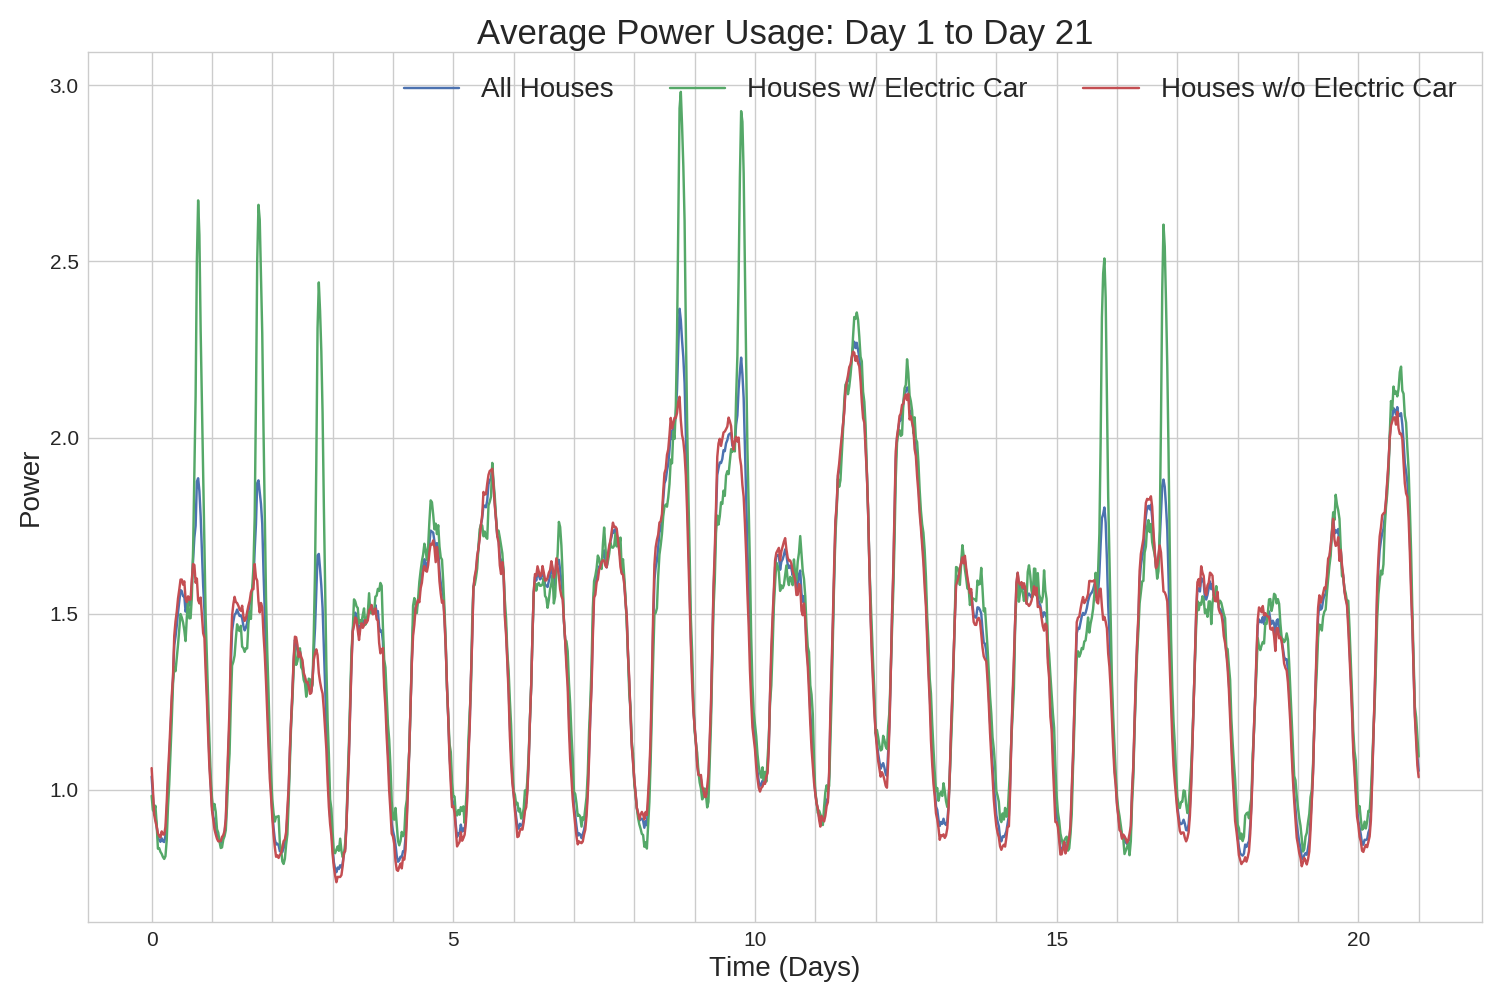
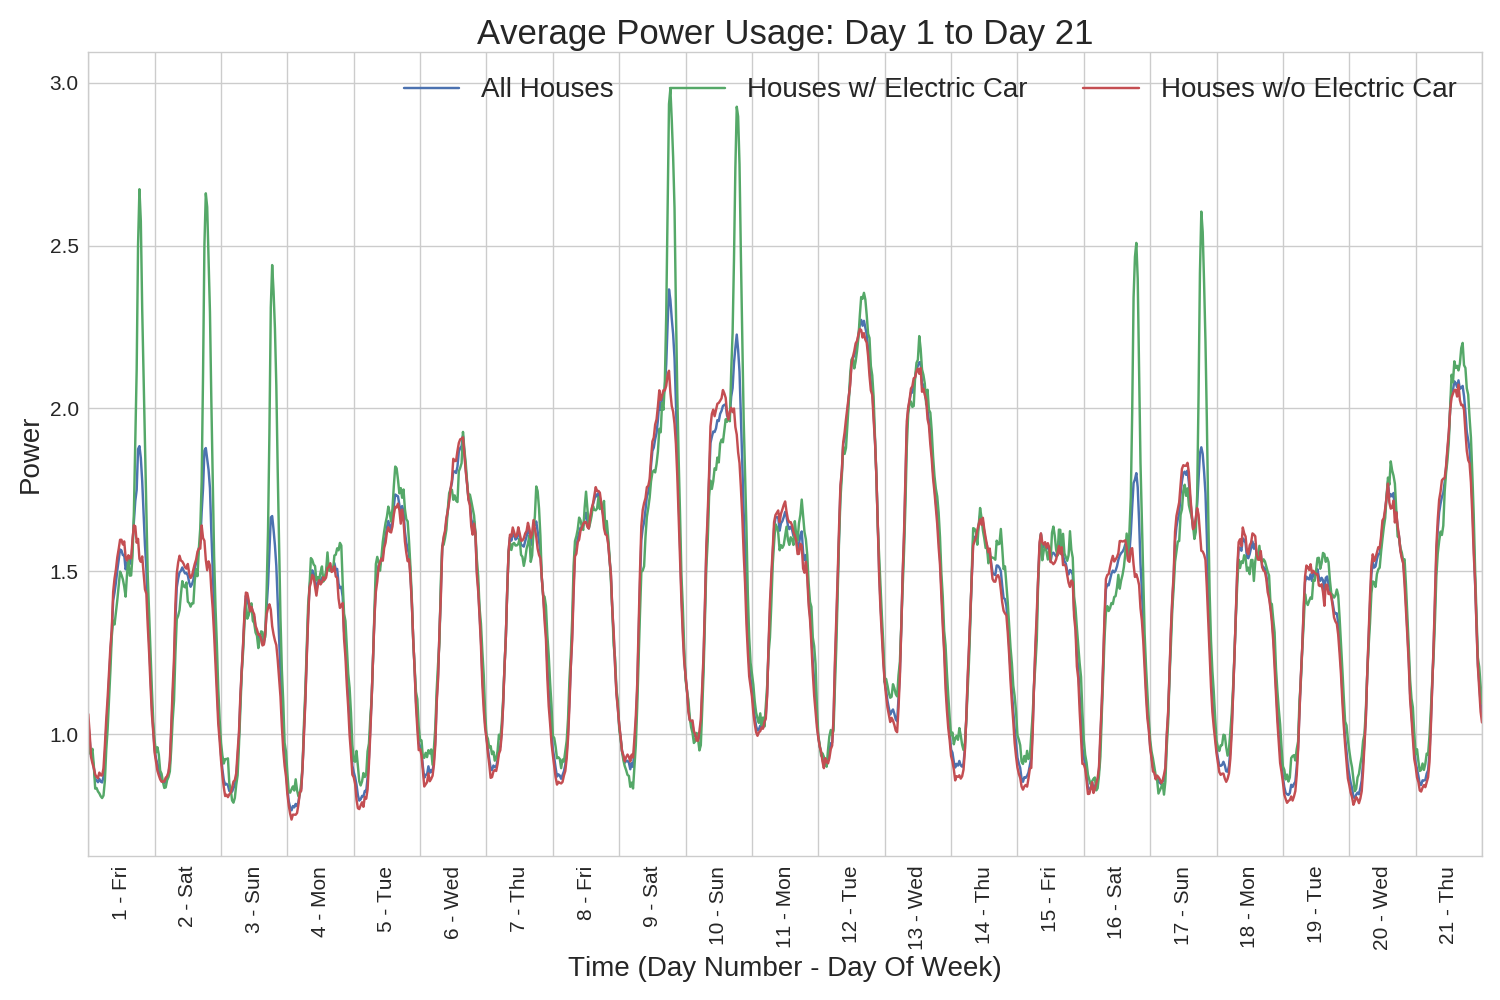
Did some more work on the readme and improved the average power plots

diff --git a/eda_plots.py b/eda_plots.py
@@ -6,6 +6,7 @@ from matplotlib.ticker import AutoMinorLocator
 import seaborn as sns
 import peakutils
 from sklearn.preprocessing import StandardScaler
+import calendar
 
 sns.set_style("whitegrid")
 
@@ -61,7 +62,7 @@ def dist_of_charging_vs_not():
     plt.savefig("images/eda/dist_of_charging_vs_not.png")
     fig.show()
 
-def average_power_usage(days=None, save_figure=False):
+def average_power_usage(days=None, save_figure=False, show_day_labels=False):
     energy = np.mean(feature_matrix, axis=0)
     car_energy = np.mean(electric_car_features, axis=0)
     no_car_energy = np.mean(no_electric_car_features, axis=0)
@@ -85,7 +86,16 @@ def average_power_usage(days=None, save_figure=False):
     ax.plot(time[increments[na:nb]], car_energy[increments[na:nb]], label="Houses w/ Electric Car")
     ax.plot(time[increments[na:nb]], no_car_energy[increments[na:nb]], label="Houses w/o Electric Car")
 
-    ax.set_xlabel("Time (Days)", fontsize=20)
+    if show_day_labels:
+        xticks = np.arange(days[0], days[1] + 1)
+        ax.set_xticks(0.5 + xticks)
+        day_names = [list(calendar.day_abbr)[n] for n in (4 + xticks)%7]
+        xlabels = ["{0} - {1}".format(1 + xticks[n], day_names[n]) for n in xrange(len(xticks))]
+        ax.set_xticklabels(xlabels, rotation = 90)
+        ax.set_xlim(days[0], days[1]+1)
+        ax.set_xlabel("Time (Day Number - Day Of Week)", fontsize=20)
+    else:
+        ax.set_xlabel("Time (Days)", fontsize=20)
     ax.set_xticks(np.arange(days[0], days[1]+2), minor=True)
     ax.xaxis.grid(True, which="minor")
     ax.xaxis.grid(False, which="major")
@@ -197,10 +207,10 @@ if __name__ == '__main__':
     # dist_of_charging_vs_not()
     # compare_ave_power_use_to_cars_charging()
     # average_power_usage(days=None, save_figure=True)
-    # average_power_usage(days=[0,20], save_figure=True)
-    # average_power_usage(days=[21,41], save_figure=True)
-    # average_power_usage(days=[42,59], save_figure=True)
+    # average_power_usage(days=[0,20], save_figure=False, show_day_labels=True)
+    # average_power_usage(days=[21,41], save_figure=True, show_day_labels=True)
+    average_power_usage(days=[42,59], save_figure=True, show_day_labels=True)
 
-    single_house_power_usage(houses_with_electric_cars[2], [0,20], save_figure=False)
-    single_house_power_usage(houses_with_electric_cars[2], [21,41], save_figure=False)
-    single_house_power_usage(houses_with_electric_cars[2], [42,59], save_figure=False)
+    # single_house_power_usage(houses_with_electric_cars[2], [0,20], save_figure=False)
+    # single_house_power_usage(houses_with_electric_cars[2], [21,41], save_figure=False)
+    # single_house_power_usage(houses_with_electric_cars[2], [42,59], save_figure=False)

diff --git a/README.md b/README.md
@@ -41,11 +41,14 @@ over smaller time intervals.  The next three plots once again show the average
 power for all houses, houses with electric cars, and houses without electric cars,
 but they are broken up into periods of roughly three weeks.  
 
-The plot describing day 1 to day 21 is shown first.  Notice that the first three days
-all show spikes in power usage for houses with electric vehicles.  This most likely
-indicates that day 1 was a Friday and also a holiday.  The remaining four days with
-power spikes on houses with electric vehicles would fall on Saturdays and Sundays
-under the assumption that day 1 is a Friday.
+The plot describing day 1 to day 21 is shown first.  It is not explicitly
+mentioned that day 1 is a Friday, but it is labeled as such in this plot.
+This is because if it is assumed that day 1 is a Friday, then all the days with
+power spikes would fall on weekend days, with the exception of day 1, which was
+probably a holiday.  The idea that people charge their electric vehicles at a
+higher rate on the weekends makes sense intuitively because people tend to spend
+more time at home on the weekends, and it stands to reason that people charge their
+electric vehicles when they are home.
 
 <img src="images/eda/average_power_day1_to_day21.png" width="1000" height = "600" />
 
@@ -58,7 +61,7 @@ also fall on weekends assuming that day 1 is a Friday.
 
 <img src="images/eda/average_power_day22_to_day42.png" width="1000" height = "600" />
 
-The final average power usage plot showing day 43 to 60 continues to support the
+The final average power usage plot showing day 43 to day 60 continues to support the
 weekend power spike hypothesis.  Eighteen days are shown here (as opposed to the
 21 days shown in the previous two plots) with six of them showing power spikes,
 all of which occur on weekends following the assumption that day 1 is a Friday.
